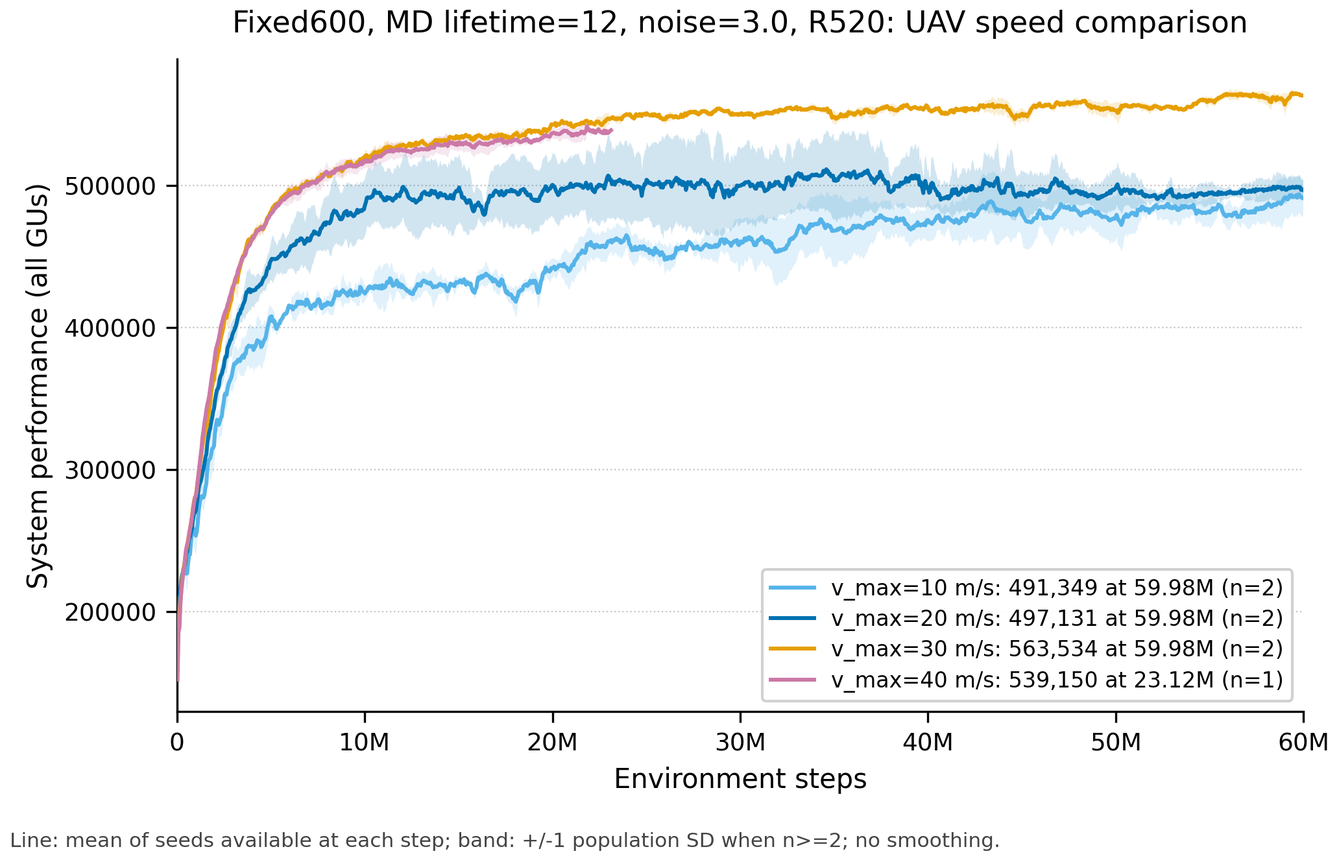
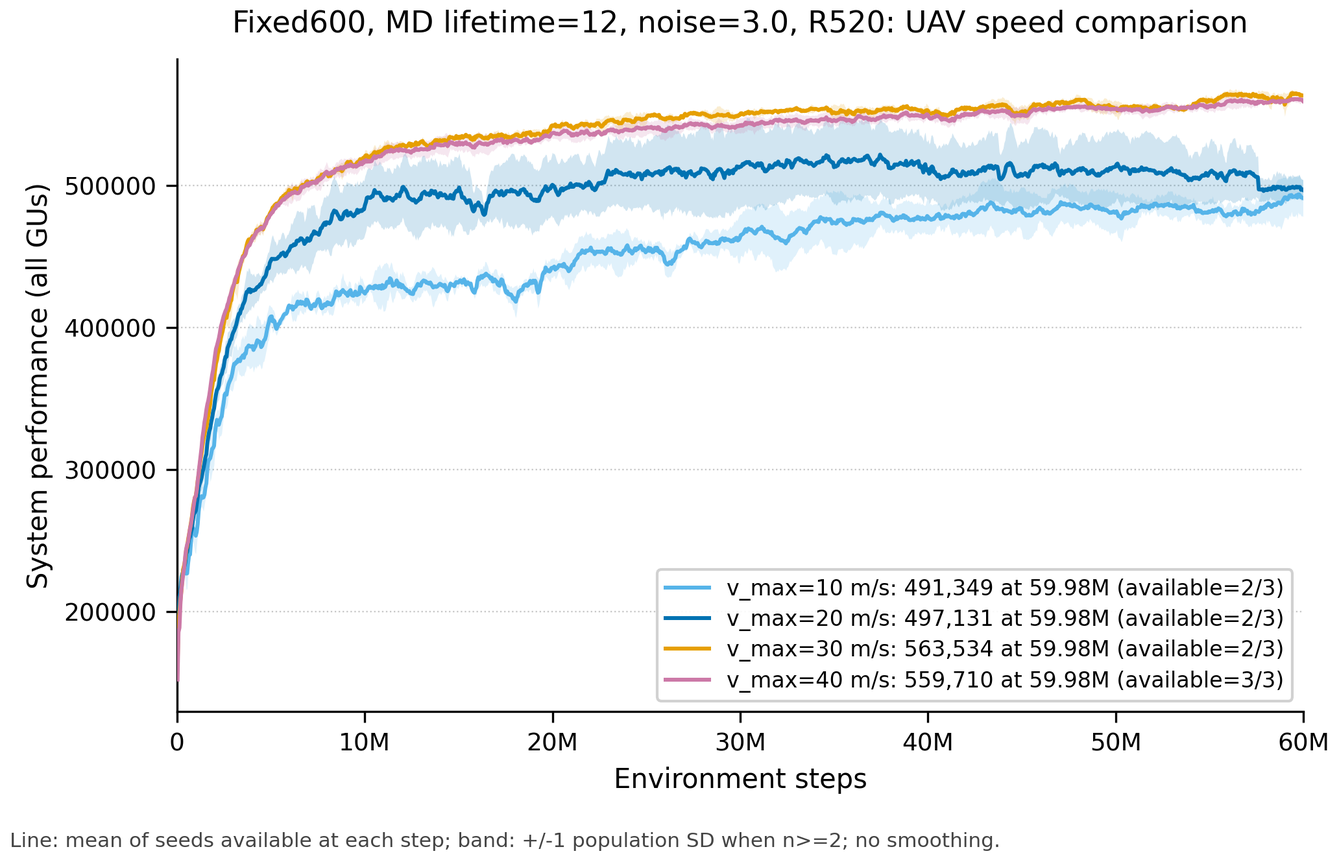
docs: archive speed analysis and sync updates

diff --git a/onpolicy/scripts/sync_remote3090_speed_results.py b/onpolicy/scripts/sync_remote3090_speed_results.py
@@ -1,9 +1,16 @@
-"""Incrementally archive the six formal remote speed runs beside local runs."""
+"""Archive the six formal remote speed runs beside the local result tree.
+
+The remote run directories are copied to ``onpolicy/scripts/results/mec/mappo``
+with their original experiment names and ``run1`` layout, so local plotting
+continues to work after the remote machine is cleaned up.
+"""
 
 from __future__ import annotations
 
 import argparse
+import datetime as dt
 import getpass
+import json
 import os
 import stat
 from pathlib import Path, PurePosixPath
@@ -20,6 +27,7 @@ REMOTE_ROOT = PurePosixPath(
 LOCAL_ROOT = Path(__file__).resolve().parent / "results" / "mec" / "mappo"
 REMOTE_LOG_ROOT = REMOTE_ROOT.parents[4] / "training_logs"
 LOCAL_LOG_ROOT = Path(__file__).resolve().parents[2] / "training_logs"
+SYNC_MANIFEST = Path(__file__).resolve().parent / "remote_speed_sync_manifest.json"
 EXPERIMENTS = (
     "dcppoR520_fixed600_200_layoutctx_inputv2_peragentnoise_s3p0_md12_vmax10_seed32_60m_20260811_retry1",
     "dcppoR520_fixed600_200_layoutctx_inputv2_peragentnoise_s3p0_md12_vmax20_seed32_60m_20260811_retry1",
@@ -112,6 +120,7 @@ def main() -> None:
     client.set_missing_host_key_policy(paramiko.AutoAddPolicy())
     client.connect(args.host, username=args.user, password=password, timeout=15)
     try:
+        archive_rows = []
         with client.open_sftp() as sftp:
             for experiment in EXPERIMENTS:
                 files, size = sync_tree(
@@ -120,17 +129,43 @@ def main() -> None:
                 remote_files = remote_manifest(sftp, REMOTE_ROOT / experiment)
                 local_files = local_manifest(LOCAL_ROOT / experiment)
                 if remote_files != local_files:
-                    print(f"{experiment}: remote changed during verification; rerun sync")
-                    continue
+                    raise RuntimeError(
+                        f"{experiment}: remote/local file manifests differ; rerun sync"
+                    )
                 print(
                     f"{experiment}: downloaded {files} files, {size} bytes; "
                     f"verified {len(remote_files)} files"
+                )
+                archive_rows.append(
+                    {
+                        "experiment": experiment,
+                        "local_directory": str(LOCAL_ROOT / experiment),
+                        "file_count": len(remote_files),
+                        "total_bytes": sum(remote_files.values()),
+                    }
                 )
             for log_name in TRAINING_LOGS:
                 changed, size = sync_file(
                     sftp, REMOTE_LOG_ROOT / log_name, LOCAL_LOG_ROOT / log_name
                 )
                 print(f"training_logs/{log_name}: downloaded {int(changed)} file, {size} bytes")
+            SYNC_MANIFEST.write_text(
+                json.dumps(
+                    {
+                        "generated_at": dt.datetime.now().astimezone().isoformat(
+                            timespec="seconds"
+                        ),
+                        "remote_host": f"{args.host}:22",
+                        "remote_root": str(REMOTE_ROOT),
+                        "local_root": str(LOCAL_ROOT),
+                        "experiments": archive_rows,
+                    },
+                    ensure_ascii=False,
+                    indent=2,
+                ),
+                encoding="utf-8",
+            )
+            print(f"sync manifest: {SYNC_MANIFEST}")
     finally:
         client.close()
 

diff --git a/analysis/fixed600_speed_3seed_20260812/plot.py b/analysis/fixed600_speed_3seed_20260812/plot.py
@@ -20,7 +20,6 @@ COMPLETE_THRESHOLD = 59_900_000
 HERE = Path(__file__).resolve().parent
 REPO = HERE.parents[1]
 RESULTS = REPO / "onpolicy" / "scripts" / "results" / "mec" / "mappo"
-REMOTE = HERE / "data" / "remote"
 LOCAL_EXPERIMENTS = {
     (10, 2): "dcppoR520_fixed600_200_layoutctx_inputv2_peragentnoise_s3p0_md12_vmax10_seed2_60m_20260812",
     (20, 2): "dcppoR520_fixed600_200_layoutctx_inputv2_peragentnoise_s3p0_md12_vmax20_seed2_60m_20260812",
@@ -37,13 +36,6 @@ REMOTE_EXPERIMENTS = {
     (40, 2): "dcppoR520_fixed600_200_layoutctx_inputv2_peragentnoise_s3p0_md12_vmax40_seed2_60m_20260812",
     (40, 32): "dcppoR520_fixed600_200_layoutctx_inputv2_peragentnoise_s3p0_md12_vmax40_seed32_60m_20260812",
     (40, 42): "dcppoR520_fixed600_200_layoutctx_inputv2_peragentnoise_s3p0_md12_vmax40_seed42_60m_20260812",
-}
-
-REMOTE_RUNS = {
-    key: (REMOTE / f"events.out.tfevents.vmax{speed}_seed{seed}",
-          REMOTE / f"vmax{speed}_seed{seed}.args.json")
-    for key in REMOTE_EXPERIMENTS
-    for speed, seed in [key]
 }
 
 EXPECTED_PROTOCOL = {
@@ -161,8 +153,14 @@ def main() -> None:
     source_paths = {}
     for key, experiment in LOCAL_EXPERIMENTS.items():
         source_paths[key] = (*local_paths(experiment), "local", experiment)
-    for key, (event_path, args_path) in REMOTE_RUNS.items():
-        source_paths[key] = (event_path, args_path, "remote", event_path.name)
+    for key, experiment in REMOTE_EXPERIMENTS.items():
+        event_path, args_path = local_paths(experiment)
+        source_paths[key] = (
+            event_path,
+            args_path,
+            "remote3090-archived",
+            experiment,
+        )
 
     expected_keys = {(speed, seed) for speed in (10, 20, 30, 40) for seed in (2, 32, 42)}
     if set(source_paths) != expected_keys:
@@ -249,12 +247,13 @@ def main() -> None:
         mean = np.nanmean(aligned, axis=0)
         std = np.nanstd(aligned, axis=0, ddof=0)
         multi_seed = counts >= 2
+        total_seed_count = len(speed_curves)
         terminal_count = int(counts[-1])
         terminal_mean = float(mean[-1])
 
         label = (
             f"v_max={speed} m/s: {terminal_mean:,.0f} at "
-            f"{fmt_step(grid[-1])} (n={terminal_count})"
+            f"{fmt_step(grid[-1])} (available={terminal_count}/{total_seed_count})"
         )
         color = COLORS[speed]
         ax.plot(grid, mean, color=color, linewidth=1.45, label=label, zorder=3)
@@ -272,6 +271,8 @@ def main() -> None:
         aggregate_summaries.append(
             {
                 "v_max": speed,
+                "seed_ids": [2, 32, 42],
+                "total_seed_count": total_seed_count,
                 "terminal_step": int(grid[-1]),
                 "terminal_seed_count": terminal_count,
                 "terminal_mean": terminal_mean,

diff --git a/速度实验.md b/速度实验.md
@@ -3,7 +3,7 @@
 > 实验主题：固定 Fixed600-200 环境下，比较 UAV 最大飞行速度 `v_max=10/20/30/40 m/s` 的训练表现。
 > 正式矩阵：4 个速度 × 3 个随机种子（2、32、42）= 12 个实验。
 > 初始冻结快照：2026-08-12 20:07:46（Asia/Shanghai）。
-> 当前归档刷新：2026-08-13 01:30:09；第 1.4、6.1 节是提交前最新状态，其余带时间戳表格均为历史快照。
+> 当前归档刷新：2026-08-13 15:24:15；远端 3090 的 6 个正式 run 已完整同步到本地结果树，最新曲线与统计均基于这次归档。
 > 对应 Codex 会话：`019fe540-5f03-76a2-9be7-e978764c8f54`，最后一轮 `019ff5db-c82f-7050-adae-b2bac63a9328`。
 > 本文只记录速度对比；`seed22` 等先导实验保留为历史证据，但不纳入 12-run 正式统计。
 
@@ -29,16 +29,17 @@ v_max
 
 环境、MD 生成与移动、Actor message、Critic、优势处理、归一化、PPO 超参数和 60M 训练预算均完全相同。因此这是一个有效的 `v_max` 单变量、多 seed 速度对比。
 
-### 1.3 截止权威快照时能够下的结论
+### 1.3 截止最新归档能够下的结论
 
-- `v_max=10/20/30` 的 seed32、seed42 已完成到 `59.9808M`；在这两个完整 seed 上，`v_max=30 m/s` 明显优于 10 和 20。
-- 完整曲线末 100 个记录点、再对 seed32/42 求均值：v10 为 `485,026`，v20 为 `496,693`，v30 为 `562,608`。v30 相对 v20 高约 `13.27%`，相对 v10 高约 `15.99%`。
-- 因而当前冻结值为 `v_max=30 m/s`；配合 `Delta_t=0.5 s`，单 slot 最大位移为 `15 m`。
-- 快照时 v40 三个 seed 只到约 `7.76M–8.63M`，不能用早期曲线与 v30 的 60M 终值直接比较，也不能宣称“四个速度都已跑满且 v30 全局最优”。严谨结论是：**30 已在完整预算下胜过 10/20；40 等完整预算复核。**
+- `v_max=10/20/30` 的 seed32、seed42，以及 `v_max=40` 的 seed2/32/42 已完成到 `59.9808M`；本地 v10/20/30 的 seed2 在接近末尾前被提前终止。
+- 最新图在 `59.9808M` 的可用 seed 终点为：v10 `491,349`（2/3）、v20 `497,131`（2/3）、v30 `563,534`（2/3）、v40 `559,710`（3/3）。
+- 完整 seed 的 tail100 均值为：v10 `485,026`、v20 `496,693`、v30 `562,608`（各为 seed32/42）；v40 三 seed 为 `558,999`。因此 v30 与 v40 都明显高于 v10/v20，但 v30 当前缺少 seed2 的完整末段，不能把 v30 的两 seed 结果冒充三 seed 完整结论。
+- 四种速度共同达到的最后步数为 `51.7376M`；在这个严格共同预算点，v30 为 `553,917 ± 2,867`，v40 为 `553,006 ± 4,972`，两者非常接近。
+- 结合 `Delta_t=0.5 s`，单 slot 最大位移为 `0.5·v_max`；本轮结果足以说明速度从 10/20 提升到 30/40 有明显收益，但 v30 与 v40 的最终三 seed 排名仍需补齐 v10/20/30 的 seed2 完整预算后再定。
 
-### 1.4 2026-08-13 Git 归档时增量状态
+### 1.4 2026-08-13 15:16 最终归档状态
 
-归档前重新运行同一聚合脚本。三个远端 v40 冻结事件分别到 `23.1168M/22.5536M/21.7856M`，三 seed 共同预算为 `21.7856M`；本地仍在训练的 seed2 为 v10 `21.7856M`、v20 `21.7344M`、v30 `17.7408M`。这些只是进度刷新，不改变第 1.3 节基于完整 seed32/42 的选择：v30 继续冻结，v40 等完整 60M。
+已重新运行同步脚本并完成远端六个正式 run 的最终归档。远端 v10/20/30 的 seed32 和 v40 的 seed2/32/42 均为 `59.9808M`；本地 v10/20/30 的 seed2 分别在 `57.6768M/57.5744M/51.7376M` 停止。当前图因此对每个速度按“每一步实际可用 seed”聚合，尾部对 v10/20/30 使用 2 个完成 seed，v40 使用 3 个完成 seed。
 
 ## 2. 12 个正式速度实验
 
@@ -60,20 +61,20 @@ D:\wyj\Projects\on-policy-last-obs-clean-5UAV\onpolicy\scripts\results\mec\mappo
 
 ### 2.2 正式 run 清单
 
-| `v_max` | seed | 设备 | 正式结果文件夹名 | 2026-08-12 20:07 历史状态 |
+| `v_max` | seed | 设备 | 正式结果文件夹名 | 当前状态（2026-08-13 15:24） |
 |---:|---:|---|---|---:|
-| 10 | 2 | 本地 | [`dcppoR520_fixed600_200_layoutctx_inputv2_peragentnoise_s3p0_md12_vmax10_seed2_60m_20260812`](onpolicy/scripts/results/mec/mappo/dcppoR520_fixed600_200_layoutctx_inputv2_peragentnoise_s3p0_md12_vmax10_seed2_60m_20260812/run1/) | 7.7568M / 60M |
+| 10 | 2 | 本地 | [`dcppoR520_fixed600_200_layoutctx_inputv2_peragentnoise_s3p0_md12_vmax10_seed2_60m_20260812`](onpolicy/scripts/results/mec/mappo/dcppoR520_fixed600_200_layoutctx_inputv2_peragentnoise_s3p0_md12_vmax10_seed2_60m_20260812/run1/) | 57.6768M，提前终止 |
 | 10 | 32 | 远端 3090 | [`dcppoR520_fixed600_200_layoutctx_inputv2_peragentnoise_s3p0_md12_vmax10_seed32_60m_20260811_retry1`](onpolicy/scripts/results/mec/mappo/dcppoR520_fixed600_200_layoutctx_inputv2_peragentnoise_s3p0_md12_vmax10_seed32_60m_20260811_retry1/run1/) | 59.9808M，完成 |
 | 10 | 42 | 本地 | [`dcppoR520_fixed600_200_layoutctx_inputv2_peragentnoise_s3p0_md12_vmax10_seed42_60m_20260811`](onpolicy/scripts/results/mec/mappo/dcppoR520_fixed600_200_layoutctx_inputv2_peragentnoise_s3p0_md12_vmax10_seed42_60m_20260811/run1/) | 59.9808M，完成 |
-| 20 | 2 | 本地 | [`dcppoR520_fixed600_200_layoutctx_inputv2_peragentnoise_s3p0_md12_vmax20_seed2_60m_20260812`](onpolicy/scripts/results/mec/mappo/dcppoR520_fixed600_200_layoutctx_inputv2_peragentnoise_s3p0_md12_vmax20_seed2_60m_20260812/run1/) | 7.7568M / 60M |
+| 20 | 2 | 本地 | [`dcppoR520_fixed600_200_layoutctx_inputv2_peragentnoise_s3p0_md12_vmax20_seed2_60m_20260812`](onpolicy/scripts/results/mec/mappo/dcppoR520_fixed600_200_layoutctx_inputv2_peragentnoise_s3p0_md12_vmax20_seed2_60m_20260812/run1/) | 57.5744M，提前终止 |
 | 20 | 32 | 远端 3090 | [`dcppoR520_fixed600_200_layoutctx_inputv2_peragentnoise_s3p0_md12_vmax20_seed32_60m_20260811_retry1`](onpolicy/scripts/results/mec/mappo/dcppoR520_fixed600_200_layoutctx_inputv2_peragentnoise_s3p0_md12_vmax20_seed32_60m_20260811_retry1/run1/) | 59.9808M，完成 |
 | 20 | 42 | 本地 | [`dcppoR520_fixed600_200_layoutctx_inputv2_peragentnoise_s3p0_md12_vmax20_seed42_60m_20260811`](onpolicy/scripts/results/mec/mappo/dcppoR520_fixed600_200_layoutctx_inputv2_peragentnoise_s3p0_md12_vmax20_seed42_60m_20260811/run1/) | 59.9808M，完成 |
-| 30 | 2 | 本地 | [`dcppoR520_fixed600_200_layoutctx_inputv2_peragentnoise_s3p0_md12_vmax30_seed2_60m_20260812`](onpolicy/scripts/results/mec/mappo/dcppoR520_fixed600_200_layoutctx_inputv2_peragentnoise_s3p0_md12_vmax30_seed2_60m_20260812/run1/) | 3.7120M / 60M |
+| 30 | 2 | 本地 | [`dcppoR520_fixed600_200_layoutctx_inputv2_peragentnoise_s3p0_md12_vmax30_seed2_60m_20260812`](onpolicy/scripts/results/mec/mappo/dcppoR520_fixed600_200_layoutctx_inputv2_peragentnoise_s3p0_md12_vmax30_seed2_60m_20260812/run1/) | 51.7376M，提前终止 |
 | 30 | 32 | 远端 3090 | [`dcppoR520_fixed600_200_layoutctx_inputv2_peragentnoise_s3p0_md12_vmax30_seed32_60m_20260811_retry2`](onpolicy/scripts/results/mec/mappo/dcppoR520_fixed600_200_layoutctx_inputv2_peragentnoise_s3p0_md12_vmax30_seed32_60m_20260811_retry2/run1/) | 59.9808M，完成 |
 | 30 | 42 | 本地 | [`dcppoR520_fixed600_200_layoutctx_inputv2_peragentnoise_s3p0_md12_vmax30_seed42_60m_20260811`](onpolicy/scripts/results/mec/mappo/dcppoR520_fixed600_200_layoutctx_inputv2_peragentnoise_s3p0_md12_vmax30_seed42_60m_20260811/run1/) | 59.9808M，完成 |
-| 40 | 2 | 远端 3090 | [`dcppoR520_fixed600_200_layoutctx_inputv2_peragentnoise_s3p0_md12_vmax40_seed2_60m_20260812`](onpolicy/scripts/results/mec/mappo/dcppoR520_fixed600_200_layoutctx_inputv2_peragentnoise_s3p0_md12_vmax40_seed2_60m_20260812/run1/) | 8.5760M / 60M |
-| 40 | 32 | 远端 3090 | [`dcppoR520_fixed600_200_layoutctx_inputv2_peragentnoise_s3p0_md12_vmax40_seed32_60m_20260812`](onpolicy/scripts/results/mec/mappo/dcppoR520_fixed600_200_layoutctx_inputv2_peragentnoise_s3p0_md12_vmax40_seed32_60m_20260812/run1/) | 8.6272M / 60M |
-| 40 | 42 | 远端 3090 | [`dcppoR520_fixed600_200_layoutctx_inputv2_peragentnoise_s3p0_md12_vmax40_seed42_60m_20260812`](onpolicy/scripts/results/mec/mappo/dcppoR520_fixed600_200_layoutctx_inputv2_peragentnoise_s3p0_md12_vmax40_seed42_60m_20260812/run1/) | 7.7568M / 60M |
+| 40 | 2 | 远端 3090 | [`dcppoR520_fixed600_200_layoutctx_inputv2_peragentnoise_s3p0_md12_vmax40_seed2_60m_20260812`](onpolicy/scripts/results/mec/mappo/dcppoR520_fixed600_200_layoutctx_inputv2_peragentnoise_s3p0_md12_vmax40_seed2_60m_20260812/run1/) | 59.9808M，完成 |
+| 40 | 32 | 远端 3090 | [`dcppoR520_fixed600_200_layoutctx_inputv2_peragentnoise_s3p0_md12_vmax40_seed32_60m_20260812`](onpolicy/scripts/results/mec/mappo/dcppoR520_fixed600_200_layoutctx_inputv2_peragentnoise_s3p0_md12_vmax40_seed32_60m_20260812/run1/) | 59.9808M，完成 |
+| 40 | 42 | 远端 3090 | [`dcppoR520_fixed600_200_layoutctx_inputv2_peragentnoise_s3p0_md12_vmax40_seed42_60m_20260812`](onpolicy/scripts/results/mec/mappo/dcppoR520_fixed600_200_layoutctx_inputv2_peragentnoise_s3p0_md12_vmax40_seed42_60m_20260812/run1/) | 59.9808M，完成 |
 
 补充说明：远端 v10 seed32 的正式数据使用 `retry1/run1`，重复生成的 `run2` 未使用；远端 v30 seed32 使用 `retry2/run1`，较早的失败/空事件 retry 未使用。
 
@@ -98,16 +99,16 @@ D:\wyj\Projects\on-policy-last-obs-clean-5UAV\onpolicy\scripts\results\mec\mappo
 | v40 / seed32 | [`vmax40_seed32.args.json`](analysis/fixed600_speed_3seed_20260812/data/remote/vmax40_seed32.args.json) |
 | v40 / seed42 | [`vmax40_seed42.args.json`](analysis/fixed600_speed_3seed_20260812/data/remote/vmax40_seed42.args.json) |
 
-历史归档状态（首次完整同步于 2026-08-12 22:10–22:16）：
+当前最终归档状态（同步完成于 2026-08-13 15:16）：
 
-| run | 本地完整归档 | 首次归档时事件进度 | 状态 |
+| run | 本地完整归档 | 本次归档事件进度 | 状态 |
 |---|---|---:|---|
 | v10 / seed32 / `...retry1` | [`run1/`](onpolicy/scripts/results/mec/mappo/dcppoR520_fixed600_200_layoutctx_inputv2_peragentnoise_s3p0_md12_vmax10_seed32_60m_20260811_retry1/run1/) | 59.9808M | 最终归档 |
 | v20 / seed32 / `...retry1` | [`run1/`](onpolicy/scripts/results/mec/mappo/dcppoR520_fixed600_200_layoutctx_inputv2_peragentnoise_s3p0_md12_vmax20_seed32_60m_20260811_retry1/run1/) | 59.9808M | 最终归档 |
 | v30 / seed32 / `...retry2` | [`run1/`](onpolicy/scripts/results/mec/mappo/dcppoR520_fixed600_200_layoutctx_inputv2_peragentnoise_s3p0_md12_vmax30_seed32_60m_20260811_retry2/run1/) | 59.9808M | 最终归档 |
-| v40 / seed2 | [`run1/`](onpolicy/scripts/results/mec/mappo/dcppoR520_fixed600_200_layoutctx_inputv2_peragentnoise_s3p0_md12_vmax40_seed2_60m_20260812/run1/) | 15.2320M | 增量快照，需在训练结束后再同步 |
-| v40 / seed32 | [`run1/`](onpolicy/scripts/results/mec/mappo/dcppoR520_fixed600_200_layoutctx_inputv2_peragentnoise_s3p0_md12_vmax40_seed32_60m_20260812/run1/) | 14.9760M | 增量快照，需在训练结束后再同步 |
-| v40 / seed42 | [`run1/`](onpolicy/scripts/results/mec/mappo/dcppoR520_fixed600_200_layoutctx_inputv2_peragentnoise_s3p0_md12_vmax40_seed42_60m_20260812/run1/) | 14.2080M | 增量快照，需在训练结束后再同步 |
+| v40 / seed2 | [`run1/`](onpolicy/scripts/results/mec/mappo/dcppoR520_fixed600_200_layoutctx_inputv2_peragentnoise_s3p0_md12_vmax40_seed2_60m_20260812/run1/) | 59.9808M | 最终归档 |
+| v40 / seed32 | [`run1/`](onpolicy/scripts/results/mec/mappo/dcppoR520_fixed600_200_layoutctx_inputv2_peragentnoise_s3p0_md12_vmax40_seed32_60m_20260812/run1/) | 59.9808M | 最终归档 |
+| v40 / seed42 | [`run1/`](onpolicy/scripts/results/mec/mappo/dcppoR520_fixed600_200_layoutctx_inputv2_peragentnoise_s3p0_md12_vmax40_seed42_60m_20260812/run1/) | 59.9808M | 最终归档 |
 
 同步采用 [`onpolicy/scripts/sync_remote3090_speed_results.py`](onpolicy/scripts/sync_remote3090_speed_results.py)。它按文件大小和修改时间增量下载，使用 `.part` 临时文件后原子替换，并在每个实验结束时比较远端/本地相对路径和文件大小清单；脚本不会删除远端文件，也不会把密码写入仓库：
 
@@ -116,7 +117,7 @@ cd D:\wyj\Projects\on-policy-last-obs-clean-5UAV
 python .\onpolicy\scripts\sync_remote3090_speed_results.py
 ```
 
-运行后按提示输入远端密码即可。v40 仍在训练时可以重复运行；三条 v40 进程结束后必须再运行一次，才能把增量快照升级为最终归档。
+运行后按提示输入远端密码即可。脚本会把六个远端 run 同步到本地结果树，完成相对路径/文件大小校验，并生成 [`remote_speed_sync_manifest.json`](onpolicy/scripts/remote_speed_sync_manifest.json)；脚本不会删除远端文件。
 
 对应的远端控制台日志也已保存：
 
@@ -375,32 +376,33 @@ analysis/fixed600_speed_3seed_20260812/
 | 10 | 59.9808M | 2 | 491,349 | 13,005 |
 | 20 | 59.9808M | 2 | 497,131 | 6,932 |
 | 30 | 59.9808M | 2 | 563,534 | 1,080 |
-| 40 | 23.1168M | 1 | 539,150 | 不适用 |
+| 40 | 59.9808M | 3 | 559,710 | 1,396 |
 
-注意：这是 2026-08-13 01:30 刷新后各曲线“最后一个可用记录点”的图例值，不是更稳健的 tail-window 统计。v40 在 `21.7856M` 之后可用 seed 数开始下降，到 `23.1168M` 只有 seed2，因此不能与前三行 59.9808M 的终点排名。
+注意：这是最新图各曲线“最后一个可用记录点”的图例值，不是更稳健的 tail-window 统计。v10/20/30 的 seed2 提前终止，所以它们在 `59.9808M` 的终点只使用 seed32/42；v40 使用三个已完成 seed。
 
-### 6.2 完整 60M 曲线的 tail100 结果
+### 6.2 完整预算 seed 的 tail100 结果（含提前停止 seed 参考）
 
-| `v_max` | seed32，远端 tail100 | seed42，本地 tail100 | 两 seed 均值 | population std |
-|---:|---:|---:|---:|---:|
-| 10 | 474,290 | 495,761 | **485,026** | 10,736 |
-| 20 | 489,926 | 503,460 | **496,693** | 6,767 |
-| 30 | 562,101 | 563,115 | **562,608** | 507 |
+| `v_max` | seed2 tail100（提前终止） | seed32，远端 tail100 | seed42，本地 tail100 | 可用 seed 均值 | population std |
+|---:|---:|---:|---:|---:|---:|
+| 10 | 482,877（57.6768M） | 474,290 | 495,761 | **485,026**（2） | 10,736 |
+| 20 | 534,887（57.5744M） | 489,926 | 503,460 | **496,693**（2） | 6,767 |
+| 30 | 557,886（51.7376M） | 562,101 | 563,115 | **562,608**（2） | 507 |
+| 40 | 558,452 | 562,266 | 556,279 | **558,999**（3） | 2,475 |
 
-这组完整预算统计是当前选择 v30 的主要证据。v40 未到 60M，因此不进入该表。
+可用 seed 均值和 population std 只统计已达到 `59.9808M` 的完整 seed；v10/20/30 的 seed2 仅作为提前停止时的最后 100 点参考，特意标出其步数，不能与完整 60M tail100 混称。
 
 ### 6.3 四速度共同早期预算点
 
-四个速度的三个 seed 都达到的共同预算约为 `3.8144M`。该点的三 seed 均值 ± population std 为：
+四个速度的三个 seed 都达到的最后共同预算为 `51.7376M`。该点的三 seed 均值 ± population std 为：
 
-| `v_max` | 3.8144M 表现 |
+| `v_max` | 51.7376M 表现 |
 |---:|---:|
-| 10 | 387,605 ± 14,418 |
-| 20 | 427,049 ± 15,263 |
-| 30 | 462,171 ± 2,734 |
-| 40 | 458,074 ± 895 |
+| 10 | 485,434 ± 3,821 |
+| 20 | 511,278 ± 26,391 |
+| 30 | 553,917 ± 2,867 |
+| 40 | 553,006 ± 4,972 |
 
-早期共同预算下 v30 与 v40 接近，但这只能描述早期优化，不能代替完整 60M 的最终选择。
+共同预算下 v30 与 v40 接近；这提供了严格同预算比较，但不能代替 v10/20/30 seed2 补齐后的最终三 seed 统计。
 
 ## 7. `seed22` 和其他历史/排除目录
 
@@ -429,9 +431,9 @@ analysis/fixed600_speed_3seed_20260812/
 
 ## 9. 后续更新门槛
 
-1. v40 的 seed2/32/42 全部达到完整 60M 后，刷新远端事件与 `args.json`，再用同一脚本重画。
-2. 本地 v10/v20/v30 seed2 完成后，将完整预算 tail100 升级为三 seed 统计。
-3. 只有完成上述更新后，才能把“30 胜过完整的 10/20”升级为“10/20/30/40 四速度的最终三 seed 选择”。
+1. 远端 v40 的 seed2/32/42 已全部达到完整 `59.9808M`，六个远端 run 已同步并通过文件清单校验。
+2. 本地 v10/v20/v30 的 seed2 已提前终止，因此当前尾部统计对这三个速度只使用 seed32/42；若需要严格的四速度三 seed 完整预算排名，需要补跑或续跑这三个 seed2。
+3. 当前可以稳健地报告“30/40 明显优于 10/20”，但不能把 v30 的两 seed tail100 与 v40 的三 seed tail100 当成完全同等的最终三 seed 证据。
 4. 后续任何 run 若修改了除 `v_max`、`seed`、`experiment_name` 以外的参数，必须作为新协议单独建图，不能补进本 12-run 矩阵。
 
 ## 10. 最终记录状态
@@ -442,6 +444,7 @@ analysis/fixed600_speed_3seed_20260812/
 seeds：2/32/42
 参数一致性审计：通过
 图片 QA：通过
-当前冻结速度：30 m/s
-结论边界：30 已完整胜过 10/20；40 待完整 60M
+远端正式实验归档：6 个；12-run 速度矩阵目录：已记录
+当前最强曲线：v30 两个完整 seed 的 tail100 均值 562,608；v40 三 seed 为 558,999
+结论边界：30/40 明显优于 10/20；v30 的 seed2 未完成，严格四速度三 seed 最终排名待补齐
 ```

diff --git a/analysis/fixed600_speed_3seed_20260812/figure-spec.md b/analysis/fixed600_speed_3seed_20260812/figure-spec.md
@@ -1,7 +1,7 @@
 # Figure Spec
 
 - chart_type: multi-series training line chart with uncertainty bands
-- data_sources: 12 TensorBoard event files from local and remote formal runs; remote snapshots are stored under `data/remote/`
+- data_sources: 12 TensorBoard event files from the canonical local result tree; the six remote run trees are archived under `onpolicy/scripts/results/mec/mappo/`
 - rows_in_scope: `v_max=10/20/30/40`, seeds `2/32/42`
 - data_columns: `agent0/system_performance_true_all_GUs`
 - x_axis:
@@ -21,9 +21,9 @@
 - category_order: `v_max=10`, `v_max=20`, `v_max=30`, `v_max=40`
 - color_mapping: Okabe-Ito colorblind-friendly sky blue, blue, orange, and purple
 - size_mapping: none
-- legend: lower right; include the last aggregate value, step, and number of contributing seeds
+- legend: lower right; include the last aggregate value, step, and available seed count as `available=x/3`; every speed always has the formal seed set `{2,32,42}`
 - required_annotations: mean plus/minus one population standard deviation wherever at least two seeds have reached a step; retain the available raw single-seed tail without an uncertainty band
 - forbidden_elements: smoothing, regression fits, reference lines, individual seed lines, and point labels
 - layout_constraints: one 300-DPI PNG; readable legend; visible axis ticks; no clipping
-- source_note: formal runs only; remote event snapshots were refreshed read-only from `114.212.117.24:22` at 2026-08-13 00:55 +08:00; stopped duplicate and failed/empty retry directories are excluded
-- assumptions: curves are aligned on the union of logged steps using linear interpolation only inside each seed's observed range, with no extrapolation; at every step the mean and population standard deviation use all seeds that have reached that step
+- source_note: formal runs only; all six remote run trees were refreshed read-only from `114.212.117.24:22` at 2026-08-13 15:16 +08:00 and verified by relative-path/file-size manifests; stopped duplicate and failed/empty retry directories are excluded; `plot.py` reads the canonical local archive
+- assumptions: the formal matrix contains exactly 12 runs (`4 speeds × seeds {2,32,42}`); curves are aligned on the union of logged steps using linear interpolation only inside each seed's observed range, with no extrapolation; at every step the mean and population standard deviation use all seeds that have reached that step

diff --git a/analysis/fixed600_speed_3seed_20260812/audit.md b/analysis/fixed600_speed_3seed_20260812/audit.md
@@ -46,6 +46,16 @@ The frozen 2026-08-12 20:07 remote event files and `args.json` files remain unde
 - remaining_warnings: the supplied structural validator mis-parses nested Markdown axis fields, but direct spec/code/image inspection passes
 - final_status: PASSED
 
+## Refresh Audit (2026-08-13 11:14 +08:00)
+
+- remote_refresh: pass; all six remote event/args snapshots were fetched again from `114.212.117.24:22`
+- local_refresh: pass; all six local formal event files were read directly from their run folders
+- protocol_assertion: pass for all 12 runs
+- active_process_check: pass; local seed2 v_max=10/20/30 and remote v_max=40 seed2/32/42 are active
+- aggregation_contract_unchanged: pass
+- render_and_visual_check: pass; legend, lines, uncertainty bands, axes, and footnote are readable and unclipped
+- final_status: PASSED
+
 ## Refresh Audit (2026-08-13 00:57 +08:00)
 
 - six_active_processes_verified: pass
@@ -65,4 +75,16 @@ The frozen 2026-08-12 20:07 remote event files and `args.json` files remain unde
 - protocol_assertion: pass for all 12 runs
 - aggregation_contract_unchanged: pass
 - visual_inspection: pass; legend, uncertainty bands, axes, and footnote are readable and unclipped
+- final_status: PASSED
+
+## Refresh Audit (2026-08-13 15:24 +08:00)
+
+- formal_run_matrix: pass; exactly 12 runs, four speeds `{10,20,30,40}` × seeds `{2,32,42}`
+- remote_archive_sync: pass; six remote run trees were synchronized from `114.212.117.24:22` into the canonical local result root and verified by relative-path/file-size manifests
+- local_snapshots_read: pass; six local event/args sources were read from their formal run folders
+- protocol_assertion: pass for all 12 runs
+- aggregation_contract: pass; available seeds are used at each step, with population SD only when at least two seeds are available and no extrapolation
+- legend_clarity: pass; labels say `available=x/3`, making the three-run membership explicit
+- render_and_visual_inspection: pass; updated legend, uncertainty bands, axes, and footnote are readable and unclipped
+- remote_completion: pass; v40 seed2/32/42 all reach `59.9808M`; local v10/20/30 seed2 remain intentionally early-stopped
 - final_status: PASSED

diff --git a/analysis/fixed600_speed_3seed_20260812/final-status.md b/analysis/fixed600_speed_3seed_20260812/final-status.md
@@ -1,6 +1,6 @@
 # Final Status
 
-- Status: REPAIRED
+- Status: PASSED
 - Output: `plot.png`
 - Reproducible script: `plot.py`
 - Machine-readable run and aggregation summary: `progress_summary.json`
@@ -8,6 +8,8 @@
 - Figure contract: `figure-spec.md`
 - Resolution: 300 DPI
 - Palette: Okabe-Ito colorblind-safe colors
-- Refreshed: 2026-08-13 00:57 +08:00
+- Refreshed: 2026-08-13 15:24 +08:00
 - Visual inspection: passed; axes, title, legend, uncertainty bands, and footnote are readable and unclipped
-- Protocol assertion: passed for all 12 runs
+- Protocol assertion: passed for all 12 runs; legend explicitly reports available seeds as `x/3`
+- Remote archive: six remote run trees synchronized to `onpolicy/scripts/results/mec/mappo/` and verified by `remote_speed_sync_manifest.json`
+- Completion boundary: remote v40 seeds 2/32/42 are complete; local v10/v20/v30 seed2 were stopped before 60M, so their terminal aggregate uses two complete seeds
